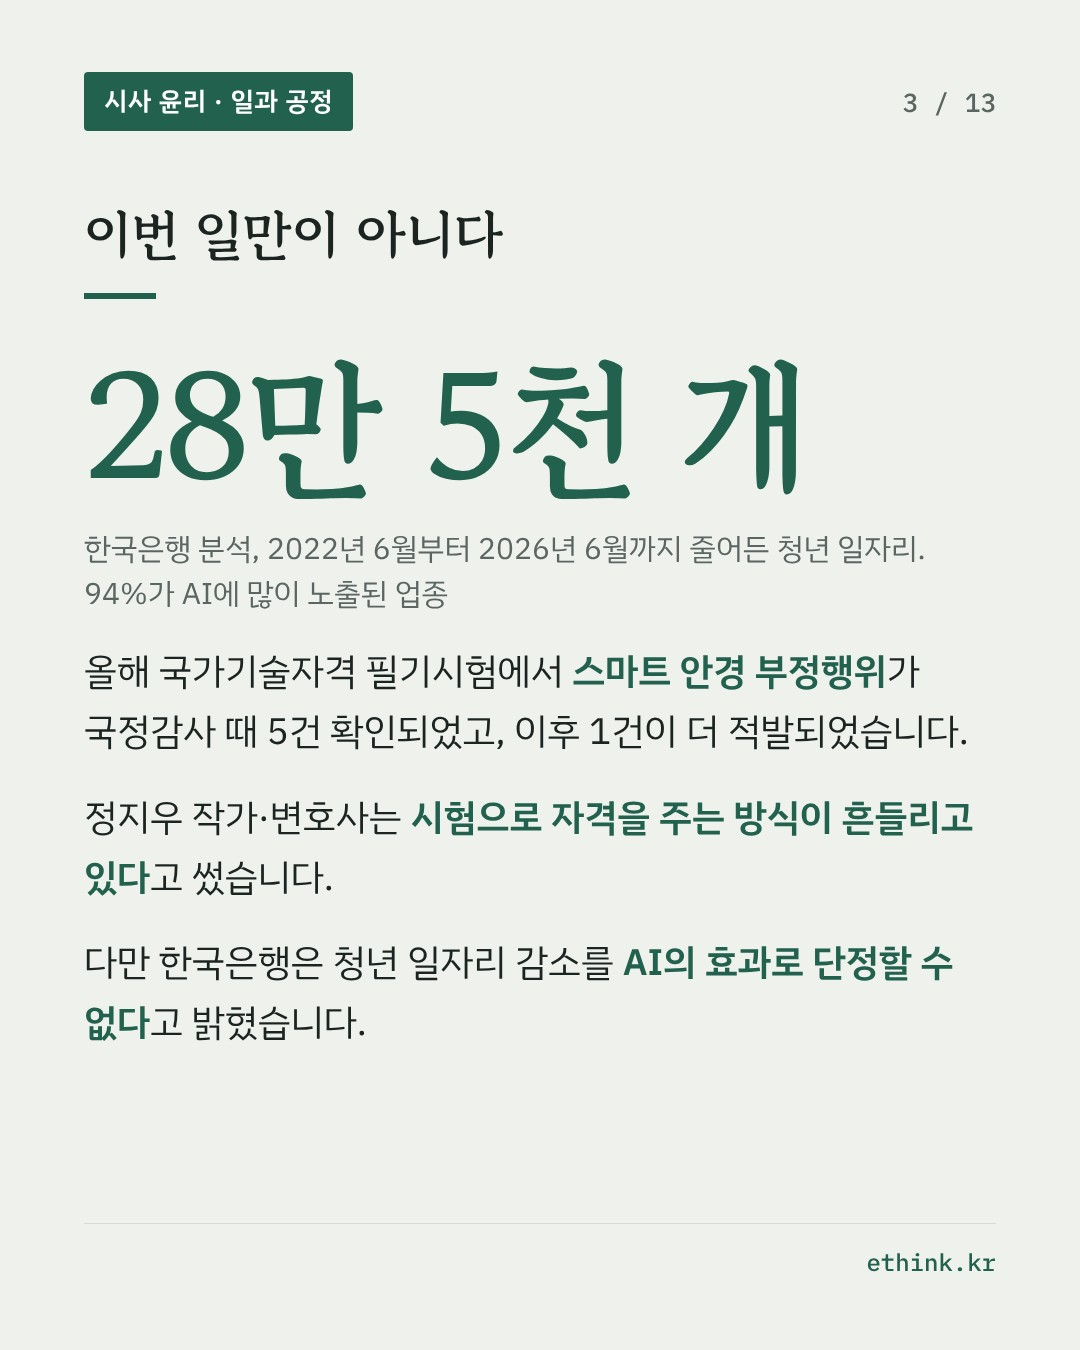
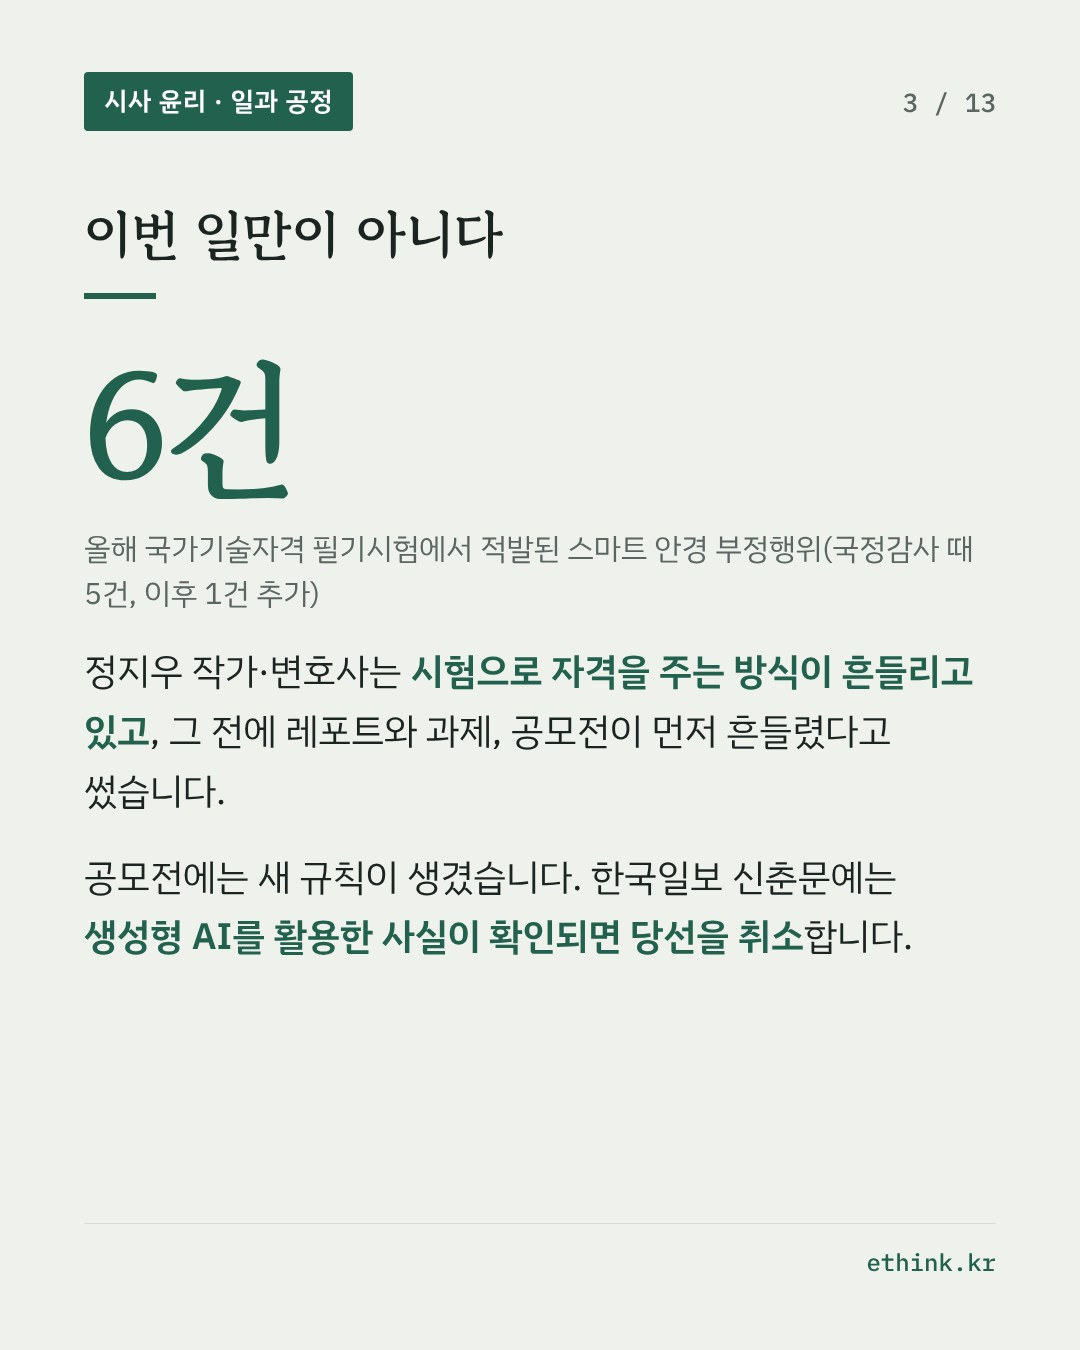
draft 11.16: 카드를 웹 수정에 맞춤(3·10·12장), 수업 연계에 '인용' 칸, 정지우 페이스북 링크

Changed region(s): [[0.0611, 0.2489, 0.9167, 0.7778]]

diff --git a/_tools/WRITING_GUIDE.md b/_tools/WRITING_GUIDE.md
@@ -67,7 +67,7 @@
   - **카드 뉴스 구성·댓글 투표 개정(2026-11-14부터, 재형 님 결정)**:
     - 댓글 투표는 **두 입장(2지선다)**으로만 쓴다. `poll.options`는 2개, "1번 ○○다 vs 2번 ○○다"처럼 서로 맞서는 입장. ask는 "1번과 2번 중 하나를 고르고, 이유를 한 줄로 댓글에 남겨 주세요!". GPT 카드 뉴스의 first_comment도 같은 양식으로 고쳐 넣는다(A~D 보기 금지).
     - **인용 전용 카드(type: pull) 한 장**을 넣는다: 사상가 문장이나 글의 결론 한 문장을 진한 단색 바탕에 2~3줄(60자 안팎, 원문 그대로, 줄일 때는 (…)). 스토리 공유용 `<이름>-pull-story.jpg`가 함께 만들어진다.
-    - **수업 연계 카드(type: lesson)를 end 바로 앞에 고정**: 교과 연계(『인문학과 윤리』 단원을 맨 앞에, 3개 이내) + "『…』(길벗) 쪽" 한 줄(본문 카드에 나온 쪽수를 정리, '교과서 인용:' 같은 머리말은 붙이지 않는다) + 탐구 질문 2개. 순서는 … → pull → lesson → end.
+    - **수업 연계 카드(type: lesson)를 end 바로 앞에 고정**: 교과 연계(『인문학과 윤리』 단원을 맨 앞에, 3개 이내) + '인용' 칸(cites)에 인용한 교과서와 쪽수(본문 카드에 나온 쪽수를 정리, 예: 『인문학과 윤리』(길벗) 143~145쪽 · 2026-11-16부터 교과 연계와 따로 둔다) + 탐구 질문 2개. 순서는 … → pull → lesson → end.
     - '세특 단골', '면접 단골' 같은 입시 문구는 쓰지 않는다. 학생 활동은 '탐구 질문'으로 쓴다(인문교양 성격 유지).
     - (2026-11-16 추가) 카드 출처가 둘(원전 · 교과서)이면 두 줄로 나눈다(도구가 자동 처리). 인용 전용 카드는 여는 따옴표와 닫는 따옴표를 모두 둔다(도구가 자동 처리). 마지막 장 안내는 "여러분의 생각을 댓글로 남겨 주세요."까지만(한 줄이어도 좋습니다 삭제). 카드 풀이에 '교과서(○쪽)'라고만 쓰지 말고 '길벗 『인문학과 윤리』(○쪽)'처럼 어느 교과서인지 밝힌다.
     - 표지 hook은 도발적인 질문형으로 쓰되, 수치는 근거 범위 안에서만 쓴다(예: 개발자가 밝힌 하루 방문자 10만 명을 '무신론자 10만 명'처럼 바꿔 쓰지 않는다. 좋은 예: "종교는 버렸는데, 왜 절하는 동작은 남았을까?").
